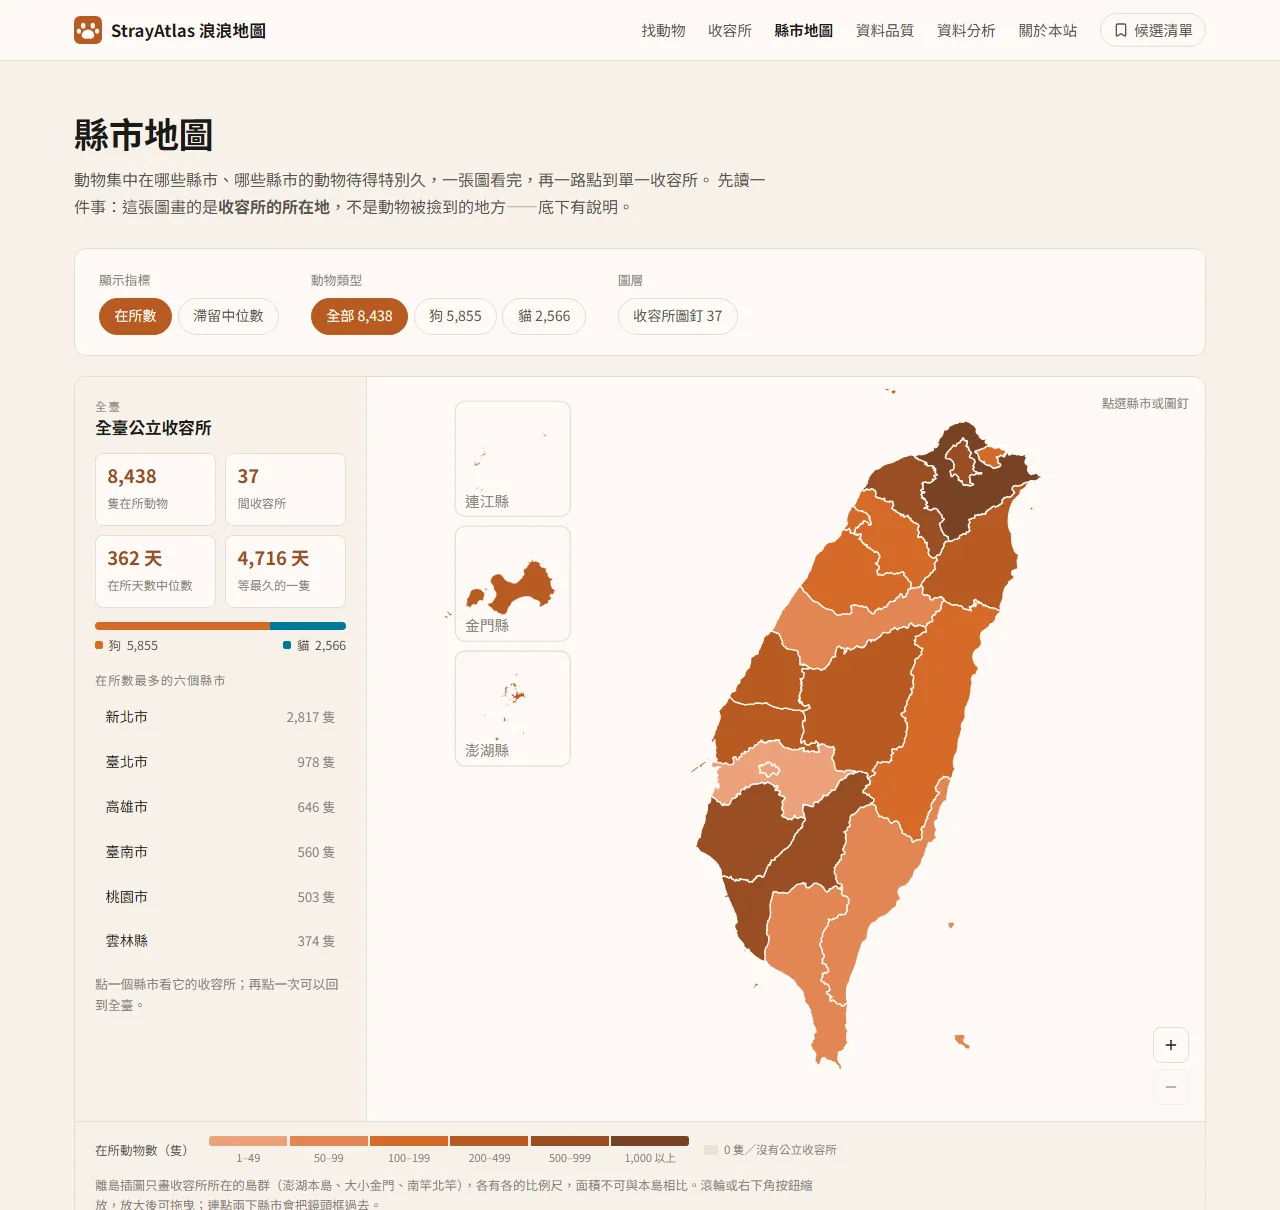
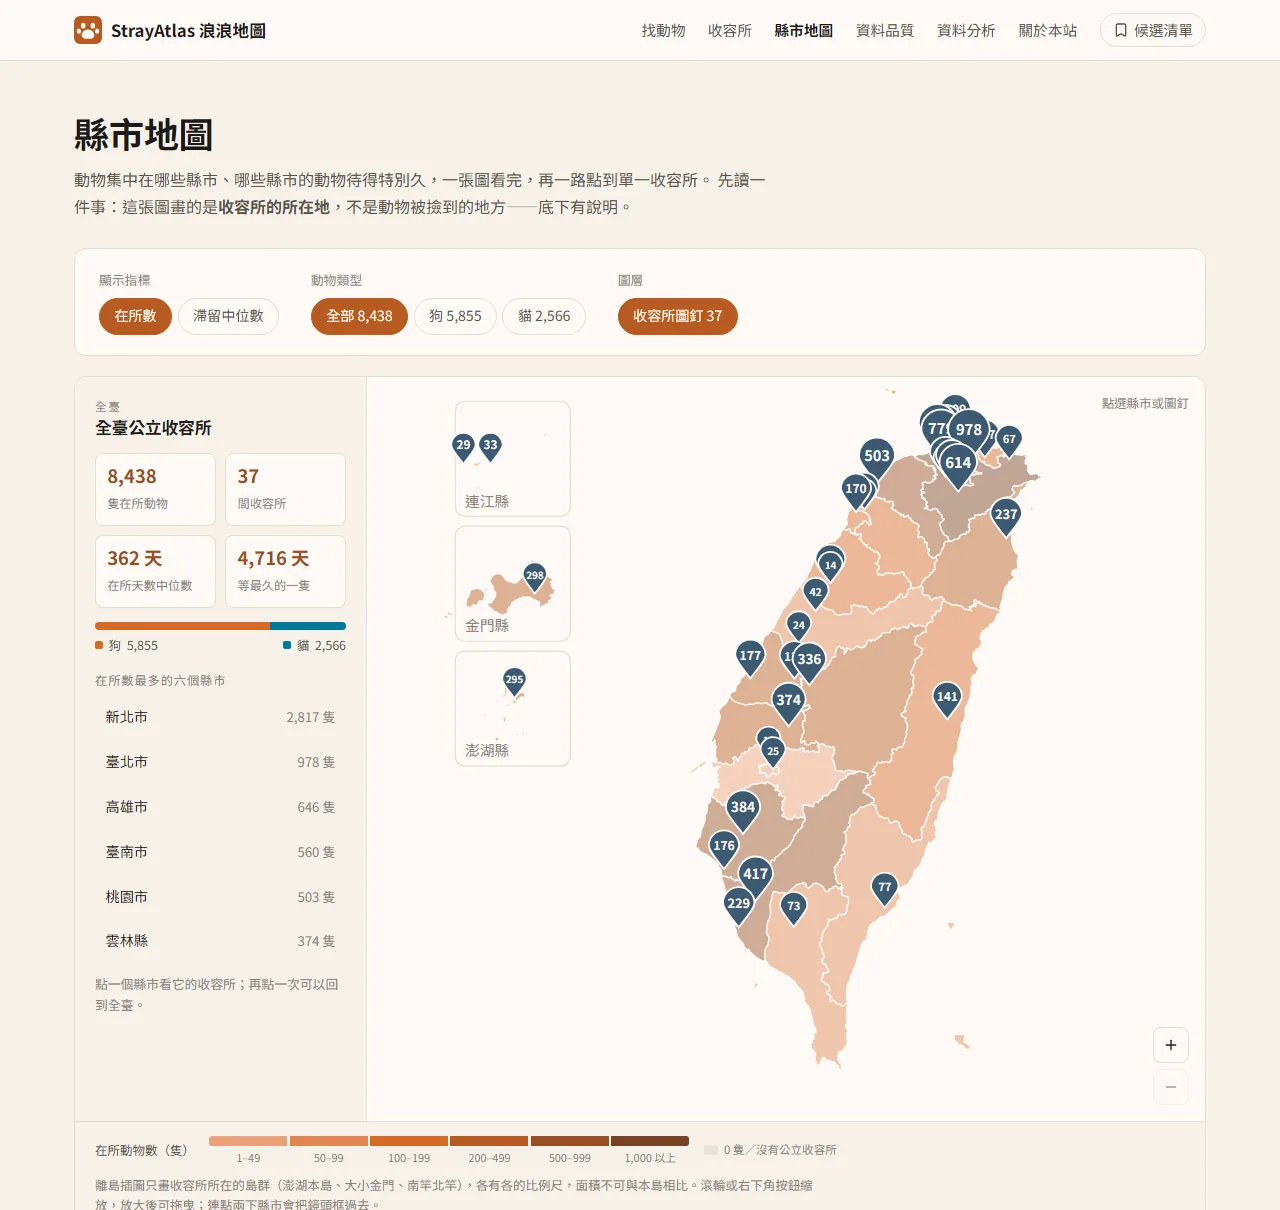
docs: show the shelter pins in the README's map screenshot
- Retake docs/images/map.webp with the shelter pin layer on, so the
  screenshot shows the 37 shelters and their counts, as the section's
  text describes.
- Mention the pins in the image's alt text.

Assisted-by: Claude <noreply@anthropic.com>

diff --git a/README.md b/README.md
@@ -42,7 +42,7 @@
 
 各縣市依在所動物數或滯留天數中位數分級著色，加上 37 處收容所圖釘，可縮放平移、點進縣市或單一收容所。圖上畫的是**收容所的所在地**，不是動物被撿到的地方（原因見 [docs/METHODOLOGY.md](docs/METHODOLOGY.md)〈尋獲地〉）。
 
-![縣市地圖：在所動物數分級著色](docs/images/map.webp)
+![縣市地圖：在所動物數分級著色與 37 處收容所圖釘](docs/images/map.webp)
 
 ### 資料分析
 
